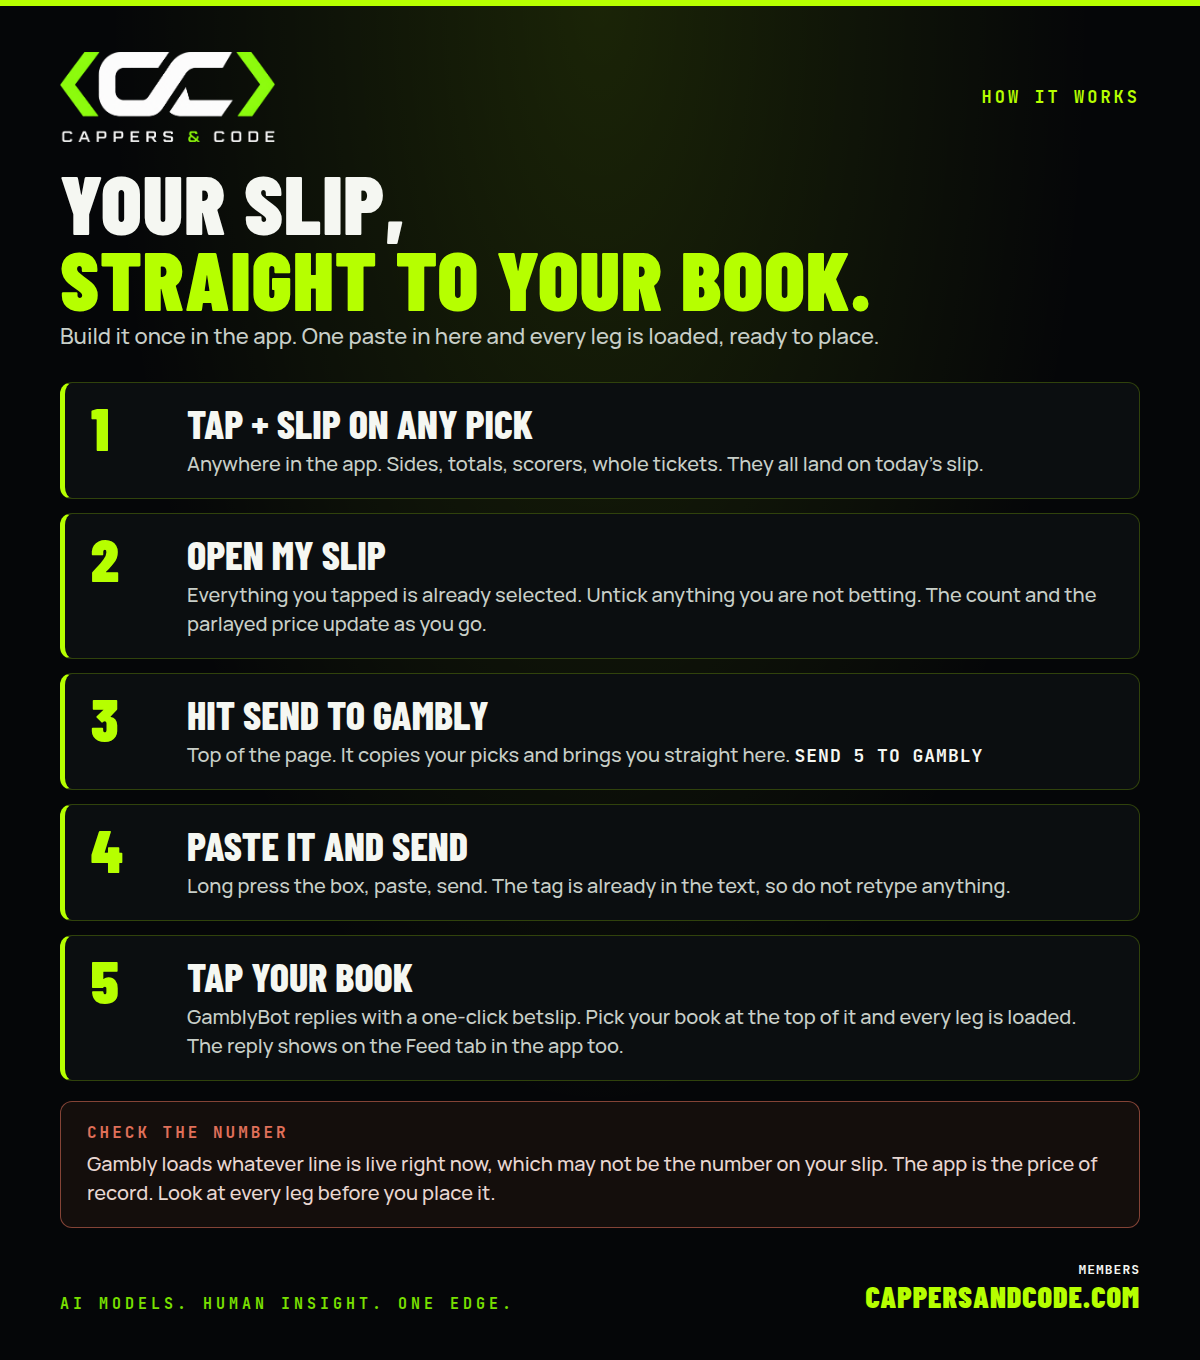
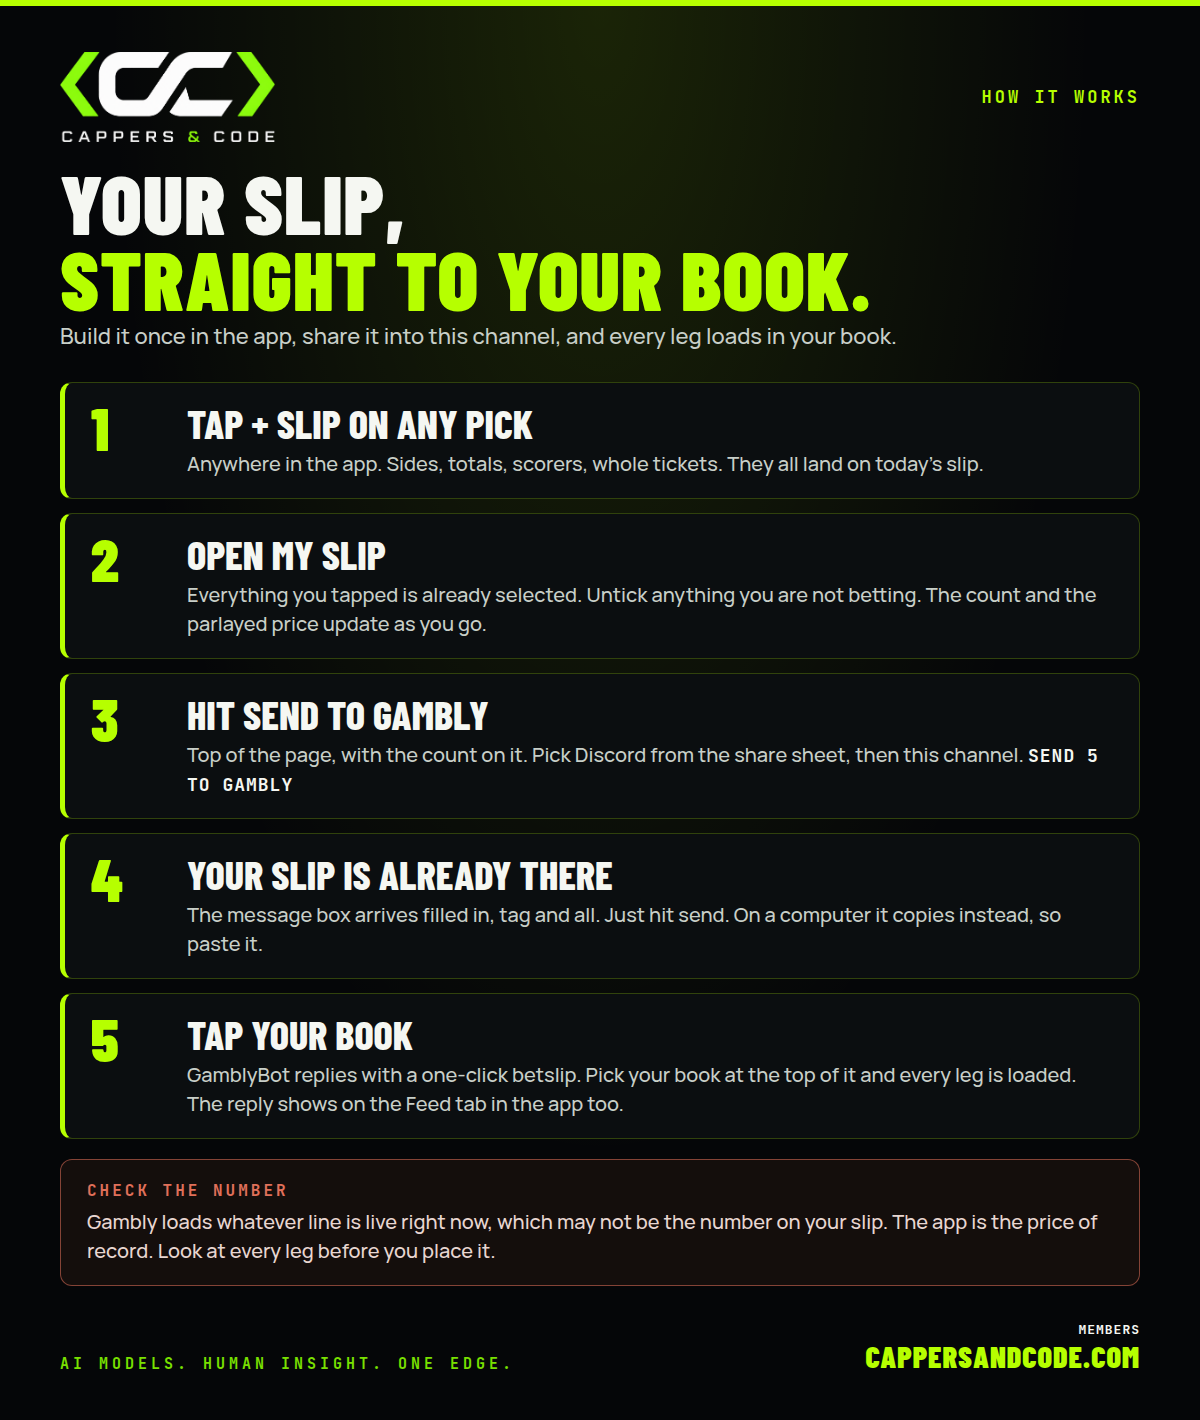
Hand the slip to the share sheet so Discord fills the box
Discord has no URL parameter for prefilling a message; people have asked since
2021 and it was never built. Opening the channel directly therefore always ends
in the member pasting, which is the step they get stuck on.

The OS share sheet does prefill it. Handing the text to the sheet lets them pick
Discord, pick the channel, and find the slip already written. The previous code
had this backwards: it opened the share sheet and then immediately navigated to
the channel, which discards whatever they had just started.

- Native and mobile web both use the share sheet, and mobile web matters most
  since the app is served on the web and phones land there.
- Desktop has no share sheet, so it keeps copy-and-open. That is the one case
  that genuinely needs a paste, and the graphic now says so.
- Dismissing the sheet raises AbortError, which is a choice rather than a
  failure and is no longer reported as an error.

The how-to graphic is updated to match: step four is now that the box arrives
filled in, with the paste named as the computer-only case.

Typecheck clean, 45 tests pass.

Claude-Session: https://claude.ai/code/session_01QLorhy8pwXBVsprT2JzAqk

diff --git a/app/(tabs)/slip.tsx b/app/(tabs)/slip.tsx
@@ -274,20 +274,36 @@ export default function SlipScreen() {
   const sendToGambly = async () => {
     const text = gamblyMessage(picked);
     if (!text) return setSendMsg('Pick at least one before sending.');
+    const webUrl = discordChannelUrl(DISCORD_GUILD_ID, GAMBLY_CHANNEL_ID);
     try {
-      if (Platform.OS === 'web' && typeof navigator !== 'undefined' && navigator.clipboard)
-        await navigator.clipboard.writeText(text);
-      else await Share.share({ message: text });
-      const appUrl = discordChannelUrl(DISCORD_GUILD_ID, GAMBLY_CHANNEL_ID, true);
-      const webUrl = discordChannelUrl(DISCORD_GUILD_ID, GAMBLY_CHANNEL_ID);
-      const useApp =
-        Platform.OS !== 'web' && (await Linking.canOpenURL(appUrl).catch(() => false));
-      await Linking.openURL(useApp ? appUrl : webUrl);
+      // The share sheet is the only way the text arrives already in Discord's box. Discord has no
+      // URL parameter for prefilling a message, so opening the channel directly always ends in a
+      // paste. Handing the text to the OS instead lets the member pick Discord, pick the channel,
+      // and find the slip written for them.
+      if (Platform.OS !== 'web') {
+        await Share.share({ message: text });
+        setSendMsg('Pick Discord, then the channel. Your slip is already in the box.');
+        return;
+      }
+      // Mobile browsers have the same share sheet; this app is served on the web, so most phones
+      // land here rather than in the branch above.
+      const nav = typeof navigator !== 'undefined' ? (navigator as Navigator) : undefined;
+      if (nav?.share) {
+        await nav.share({ text });
+        setSendMsg('Pick Discord, then the channel. Your slip is already in the box.');
+        return;
+      }
+      // Desktop has no share sheet, so this is the one case that really does need a paste.
+      if (nav?.clipboard) await nav.clipboard.writeText(text);
+      await Linking.openURL(webUrl);
       setSendMsg('Copied. Paste it in the channel and send.');
     } catch (e: any) {
+      // Dismissing the share sheet raises AbortError; that is a choice, not a failure.
+      if (e?.name === 'AbortError') return;
       setSendMsg(e?.message ?? String(e));
     }
   };
+
   const pastDays = Array.from(new Set(items.filter((i) => i.day !== today).map((i) => i.day)))
     .sort()
     .reverse();
@@ -297,6 +313,7 @@ export default function SlipScreen() {
     lost: record.filter((i) => i.status === 'lost').length,
     push: record.filter((i) => i.status === 'push').length,
   };
+
   return (
     <Screen
       title="My Slip"

diff --git a/site/sheets/gambly-howto.html b/site/sheets/gambly-howto.html
@@ -11,7 +11,7 @@
   @font-face { font-family: 'JetBrains Mono'; font-weight: 700; src: url(../promo/assets/fonts/JetBrainsMono_700Bold.ttf); }
   * { box-sizing: border-box; }
   body { margin: 0; background: #050608; color: #F5F7F2; font-family: 'Manrope', sans-serif; }
-  .card { width: 1200px; height: 1360px; padding: 52px 60px 46px; background: #050608 radial-gradient(ellipse at 50% 0%, rgba(182,255,0,.12), transparent 58%); position: relative; overflow: hidden; display: flex; flex-direction: column; }
+  .card { width: 1200px; height: 1420px; padding: 52px 60px 46px; background: #050608 radial-gradient(ellipse at 50% 0%, rgba(182,255,0,.12), transparent 58%); position: relative; overflow: hidden; display: flex; flex-direction: column; }
   .card::before { content: ""; position: absolute; left: 0; top: 0; width: 100%; height: 6px; background: #B6FF00; }
   .brand { display: flex; justify-content: space-between; align-items: center; font-family: 'JetBrains Mono'; letter-spacing: 3px; color: #B6FF00; font-weight: 700; font-size: 17px; }
   .brand img { width: 215px; display: block; }
@@ -38,7 +38,7 @@
 <section class="card">
   <div class="brand"><img src="../promo/assets/lockup.png" alt="Cappers &amp; Code" /><span>HOW IT WORKS</span></div>
   <h1>Your slip,<br /><span>straight to your book.</span></h1>
-  <p class="sub">Build it once in the app. One paste in here and every leg is loaded, ready to place.</p>
+  <p class="sub">Build it once in the app, share it into this channel, and every leg loads in your book.</p>
 
   <div class="step">
     <div class="n">1</div>
@@ -55,13 +55,13 @@
   <div class="step">
     <div class="n">3</div>
     <div><h2>Hit Send to Gambly</h2>
-      <p>Top of the page. It copies your picks and brings you straight here. <b>SEND 5 TO GAMBLY</b></p></div>
+      <p>Top of the page, with the count on it. Pick Discord from the share sheet, then this channel. <b>SEND 5 TO GAMBLY</b></p></div>
   </div>
 
   <div class="step">
     <div class="n">4</div>
-    <div><h2>Paste it and send</h2>
-      <p>Long press the box, paste, send. The tag is already in the text, so do not retype anything.</p></div>
+    <div><h2>Your slip is already there</h2>
+      <p>The message box arrives filled in, tag and all. Just hit send. On a computer it copies instead, so paste it.</p></div>
   </div>
 
   <div class="step">
